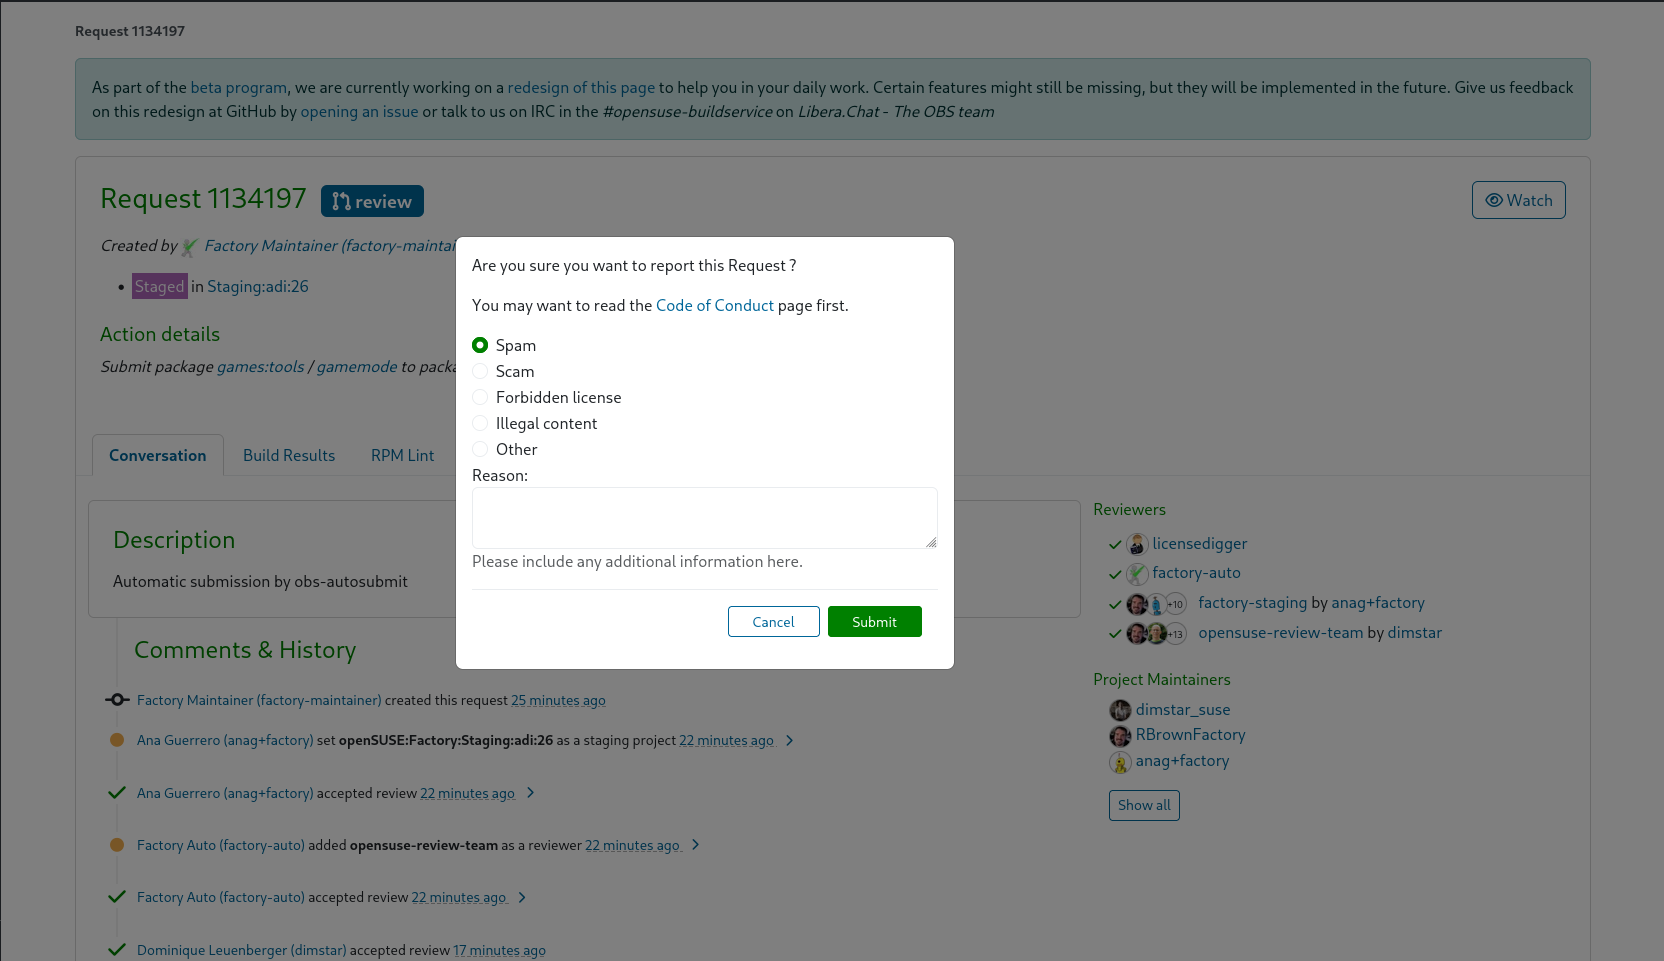
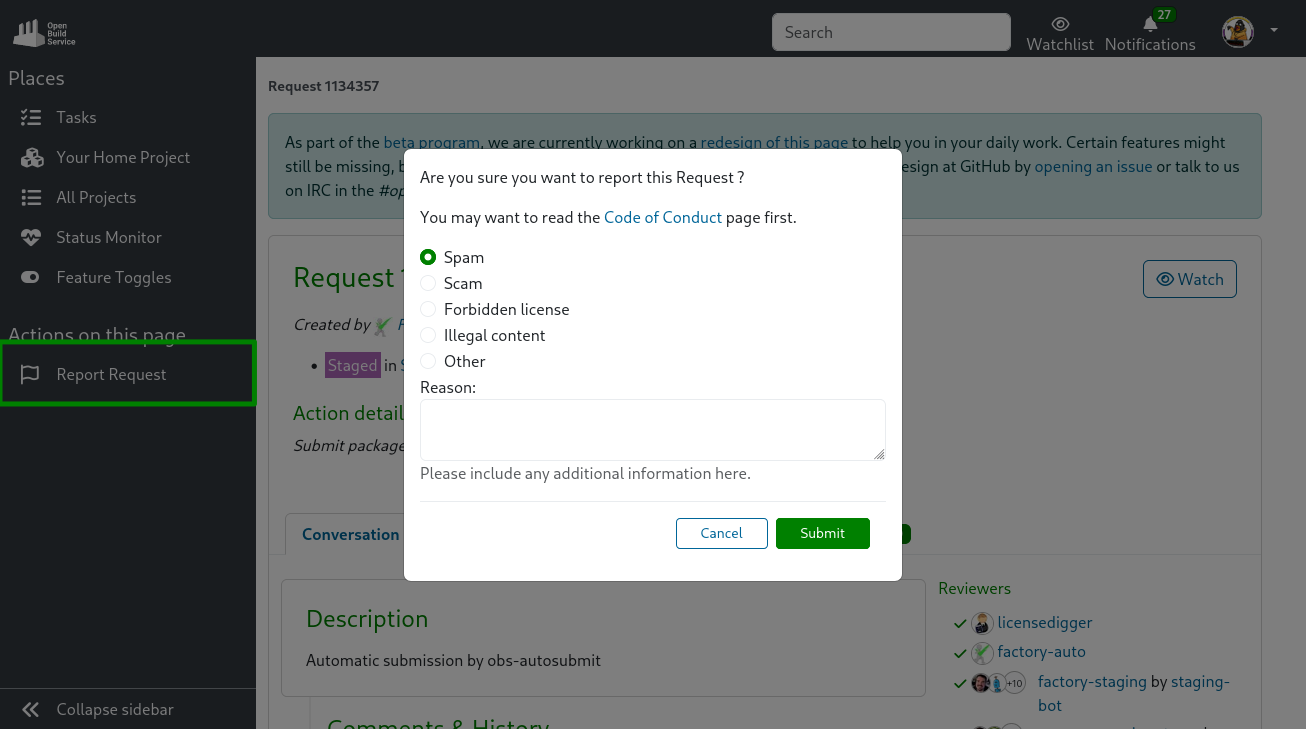
Change the title and the request image

diff --git a/_posts/development/2023-12-21-request-reports-and-comment-reports.md b/_posts/development/2023-12-21-request-reports-and-comment-reports.md
@@ -1,6 +1,6 @@
 ---
 layout: post
-title: Request reporting and easier reporting of users from comments
+title: New and Improved Ways to Report
 category: development
 image: images/posts/sprint_156/page_image_user_report.png
 ---
